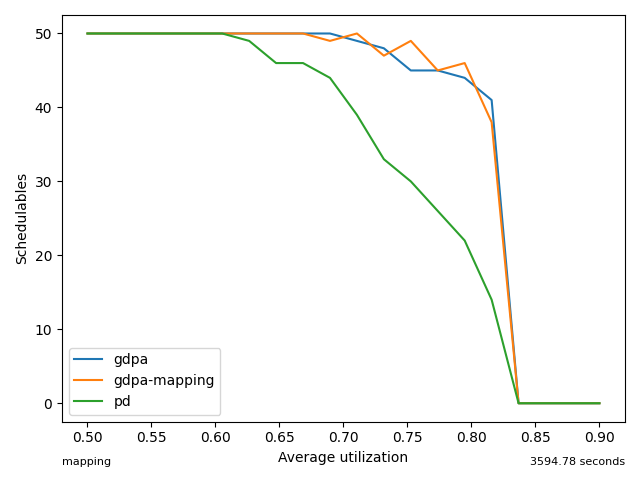
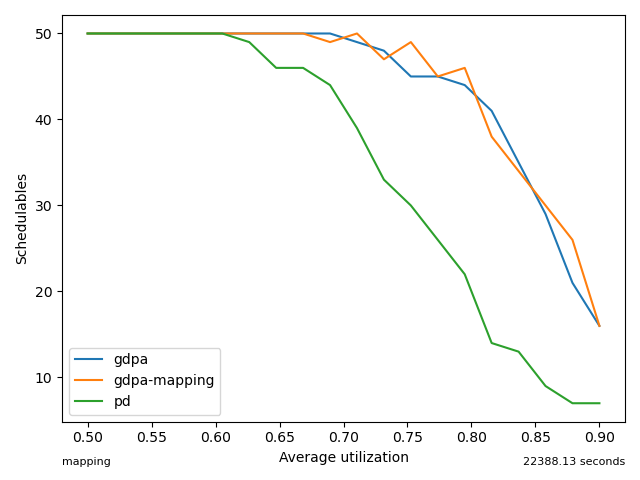
mapping results

diff --git a/workspaces/mapping/mapping_eval.py b/workspaces/mapping/mapping_eval.py
@@ -47,12 +47,12 @@ def gdpa_pd_fp_mapping(system: System) -> bool:
     analysis = HolisticFPAnalysis(limit_factor=10, reset=False)
     extractor = MappingPriorityExtractor()
     cost_function = InvslackCost(extractor=extractor, analysis=analysis)
-    stop_function = StandardStop(limit=100)
+    stop_function = StandardStop(limit=200)
     delta_function = AvgSeparationDelta(factor=1.5)
     batch_cost_function = SequentialBatchCostFunction(cost_function=cost_function)
     gradient_function = StandardGradient(delta_function=delta_function,
                                          batch_cost_function=batch_cost_function)
-    update_function = NoisyAdam(gamma=0)
+    update_function = NoisyAdam()
     optimizer = StandardGradientDescent(extractor=extractor,
                                         cost_function=cost_function,
                                         stop_function=stop_function,
@@ -85,6 +85,6 @@ if __name__ == '__main__':
              ("pd", pd_fp)]
 
     labels, funcs = zip(*tools)
-    runner = SchedRatioEval("mapping", labels=labels, funcs=funcs,
+    runner = SchedRatioEval("mapping-gamma09-i200", labels=labels, funcs=funcs,
                             systems=systems, utilizations=utilizations, threads=6)
     runner.run()
